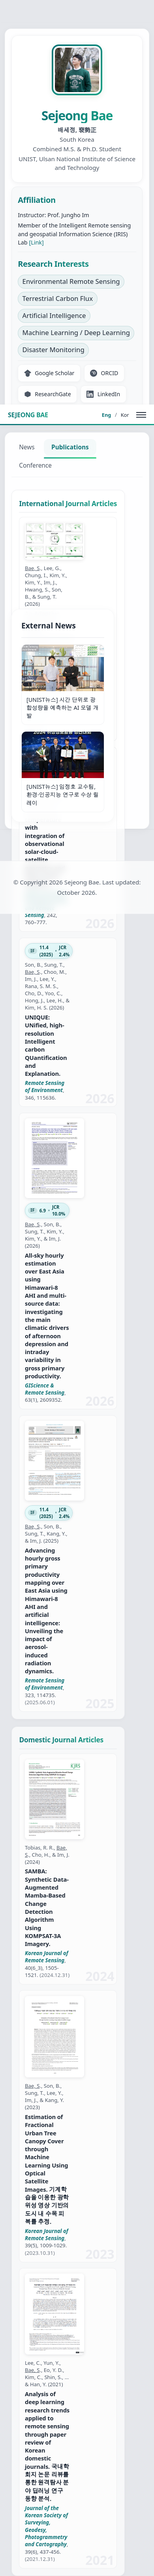
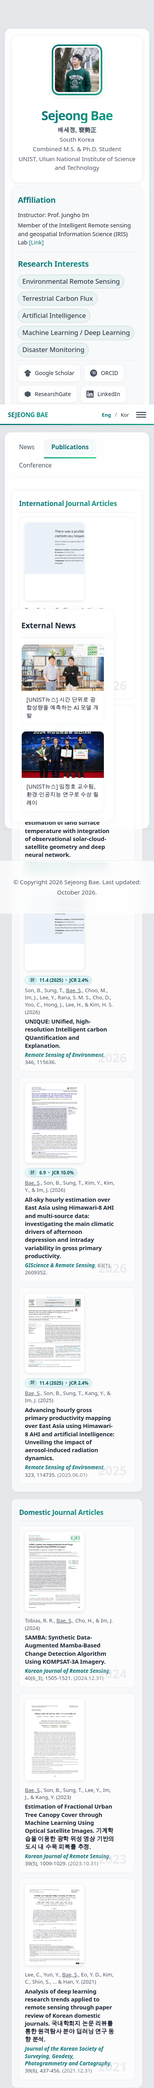
Fix publication card layout to match main; add DOI page thumbnails
- Restore original flex/grid markup (thumb + published-paper siblings)
- Capture ISPRS/RSE first-page clips for ADAPT, HELIOS, UNIQUE
- Remove broken publication-card CSS; fix static server for screenshots

diff --git a/js/site-render.js b/js/site-render.js
@@ -4,6 +4,16 @@
 (function () {
   'use strict';
 
+  const LI_FLEX = 'display: flex; gap: 1.5rem; align-items: flex-start;';
+  const LINK_FLEX =
+    'display: flex; gap: 1.5rem; align-items: flex-start; width: 100%; text-decoration: none; color: inherit;';
+  const THUMB_WRAP = 'flex-shrink: 0;';
+  const PAPER_STYLE = 'flex: 1; position: relative; min-width: 0;';
+  const IMG_STYLE =
+    'max-width: 200px; height: auto; border-radius: 8px; box-shadow: 0 2px 8px rgba(0, 0, 0, 0.1);';
+  const FALLBACK_STYLE =
+    'width: 130px; height: 168px; border-radius: 8px; box-shadow: 0 2px 8px rgba(0, 0, 0, 0.08); background: linear-gradient(160deg, #f8fafc 0%, #e2e8f0 100%); border: 1px solid rgba(148, 163, 184, 0.35); display: flex; align-items: center; justify-content: center; text-align: center; padding: 0.5rem; font-size: 0.7rem; line-height: 1.25; color: #64748b; box-sizing: border-box;';
+
   function assetPath(relativePath) {
     if (!relativePath) return '';
     const clean = relativePath.replace(/^\//, '');
@@ -14,40 +24,39 @@
     return '../' + clean;
   }
 
-  function createPublicationThumb(pub) {
+  function createThumbColumn(pub) {
     const wrap = document.createElement('div');
-    wrap.className = 'publication-thumb';
-    const img = document.createElement('img');
-    img.className = 'publication-cover';
-    img.src = assetPath(pub.image);
-    img.alt = pub.imageAlt || pub.title || 'Publication cover';
-    img.loading = 'lazy';
-    img.onerror = function onCoverError() {
-      wrap.classList.add('publication-thumb--fallback');
-      img.remove();
-      const label = document.createElement('span');
-      label.className = 'publication-thumb-fallback-label';
-      label.textContent = pub.imageAlt || 'Cover';
-      wrap.appendChild(label);
-    };
-    wrap.appendChild(img);
+    wrap.style.cssText = THUMB_WRAP;
+    if (pub.image) {
+      const img = document.createElement('img');
+      img.src = assetPath(pub.image);
+      img.alt = pub.imageAlt || pub.title || 'Publication';
+      img.style.cssText = IMG_STYLE;
+      img.loading = 'lazy';
+      img.onerror = function () {
+        img.replaceWith(createFallbackThumb(pub));
+      };
+      wrap.appendChild(img);
+    } else {
+      wrap.appendChild(createFallbackThumb(pub));
+    }
     return wrap;
   }
 
-  function buildPublishedPaper(pub, index, options) {
+  function createFallbackThumb(pub) {
+    const el = document.createElement('div');
+    el.className = 'publication-thumb-fallback';
+    el.style.cssText = FALLBACK_STYLE;
+    el.setAttribute('aria-hidden', 'true');
+    el.textContent = pub.imageAlt || 'Journal article';
+    return el;
+  }
+
+  function buildPaperBody(pub, index, options) {
     const showIndex = options.showIndex !== false;
-    const li = document.createElement('li');
-    li.className = pub.image ? 'publication-card' : 'publication-card publication-card--no-cover';
-
-    const inner = document.createElement('div');
-    inner.className = 'publication-card-inner';
-
-    if (pub.image) {
-      inner.appendChild(createPublicationThumb(pub));
-    }
-
     const body = document.createElement('div');
     body.className = 'published-paper';
+    body.style.cssText = PAPER_STYLE;
 
     if (pub.metricsHtml) {
       const metrics = document.createElement('div');
@@ -77,18 +86,28 @@
     year.textContent = String(pub.year || '');
     body.appendChild(year);
 
-    inner.appendChild(body);
+    return body;
+  }
+
+  function buildPublishedPaper(pub, index, options) {
+    const li = document.createElement('li');
+    li.style.cssText = LI_FLEX;
+
+    const thumb = createThumbColumn(pub);
+    const body = buildPaperBody(pub, index, options);
 
     if (pub.doi) {
       const link = document.createElement('a');
       link.href = pub.doi;
       link.target = '_blank';
       link.rel = 'noopener noreferrer';
-      link.className = 'publication-card-link';
-      link.appendChild(inner);
+      link.style.cssText = LINK_FLEX;
+      link.appendChild(thumb);
+      link.appendChild(body);
       li.appendChild(link);
     } else {
-      li.appendChild(inner);
+      li.appendChild(thumb);
+      li.appendChild(body);
     }
 
     return li;

diff --git a/style.css b/style.css
@@ -1258,66 +1258,8 @@ body {
     margin-left: 0;
 }
 
-.publication-card {
-    list-style: none;
-    margin-bottom: 0;
-    padding: 0.5rem;
-}
-
-.publication-card-inner {
-    display: flex;
-    gap: 1.5rem;
-    align-items: flex-start;
-    width: 100%;
-}
-
-.publication-card-link {
-    display: block;
-    width: 100%;
-    text-decoration: none;
-    color: inherit;
-}
-
-.publication-card--no-cover .publication-card-inner {
-    gap: 0;
-}
-
-.publication-card--no-cover .published-paper {
-    width: 100%;
-}
-
-.publication-thumb {
+.publication-thumb-fallback {
     flex-shrink: 0;
-    width: 200px;
-    max-width: 200px;
-}
-
-.publication-cover {
-    max-width: 200px;
-    width: 100%;
-    height: auto;
-    border-radius: 8px;
-    box-shadow: 0 2px 8px rgba(0, 0, 0, 0.1);
-    display: block;
-}
-
-.publication-thumb--fallback {
-    min-height: 120px;
-    border-radius: 8px;
-    background: linear-gradient(145deg, #f1f5f9, #e2e8f0);
-    border: 1px solid rgba(148, 163, 184, 0.45);
-    display: flex;
-    align-items: center;
-    justify-content: center;
-    padding: 0.75rem;
-    box-shadow: 0 2px 8px rgba(0, 0, 0, 0.06);
-}
-
-.publication-thumb-fallback-label {
-    font-size: 0.8rem;
-    color: #64748b;
-    text-align: center;
-    line-height: 1.35;
 }
 
 .conference-type-badge {
@@ -1836,22 +1778,9 @@ a:hover {
         width: 100%;
     }
     
-    .publication-item li,
-    .publication-card-inner {
+    .publication-item li {
         flex-direction: column;
         gap: 0.75rem;
-    }
-
-    .publication-thumb {
-        width: 100%;
-        max-width: 250px;
-        align-self: flex-start;
-    }
-
-    .publication-cover {
-        width: 100%;
-        max-width: 250px;
-        height: auto;
     }
 
     .publication-item li > div:first-child,
@@ -1869,8 +1798,7 @@ a:hover {
     }
     
     .publication-item li > div:last-child,
-    .publication-item li > a > div:last-child,
-    .publication-card .published-paper {
+    .publication-item li > a > div:last-child {
         width: 100%;
     }
 

diff --git a/data/site-data.js b/data/site-data.js
@@ -29,8 +29,8 @@ const SITE_DATA = {
       {
         id: 'pub-adapt-isprs-2026',
         year: 2026,
-        image: 'news/adapt_gpp_cover.png',
-        imageAlt: 'ADAPT framework for global hourly GPP',
+        image: 'news/pub_adapt_isprs2026.png',
+        imageAlt: 'ADAPT ISPRS Journal article',
         doi: 'https://doi.org/10.1016/j.isprsjprs.2026.09.024',
         authorsHtml:
           '<u>Bae, S</u>., Lee, G., Chung, I., Kim, Y., Kim, Y., Im, J., Hwang, S., Son, B., & Sung, T. (2026)',
@@ -42,6 +42,8 @@ const SITE_DATA = {
       {
         id: 'pub-helios-isprs-2026',
         year: 2026,
+        image: 'news/pub_helios_isprs2026.png',
+        imageAlt: 'HELIOS-Net ISPRS Journal article',
         doi: 'https://doi.org/10.1016/j.isprsjprs.2026.09.028',
         authorsHtml:
           'Kim, Y., Cho, D., Bae, D., Lee, Y., Lee, S., <u>Bae, S</u>., & Im, J. (2026)',
@@ -52,6 +54,8 @@ const SITE_DATA = {
       {
         id: 'pub-unique-rse-2026',
         year: 2026,
+        image: 'news/pub_unique_rse2026.png',
+        imageAlt: 'UNIQUE Remote Sensing of Environment article',
         doi: 'https://doi.org/10.1016/j.rse.2026.115636',
         authorsHtml:
           'Son, B., Sung, T., <u>Bae, S</u>., Choo, M., Im, J., Lee, Y., Rana, S. M. S., Cho, D., Yoo, C., Hong, J., Lee, H., & Kim, H. S. (2026)',
